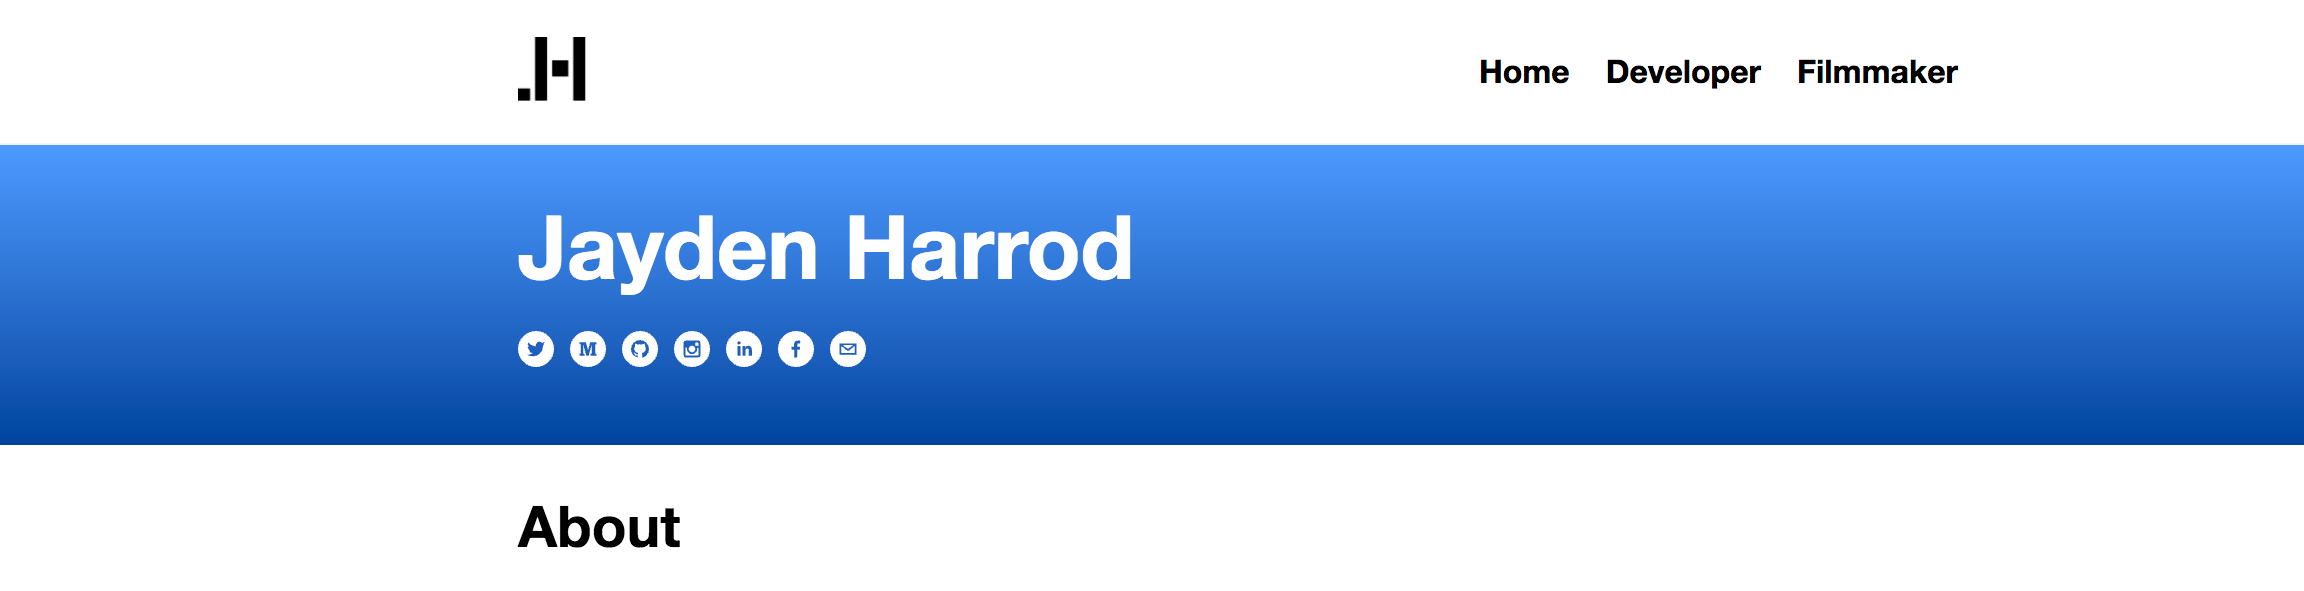
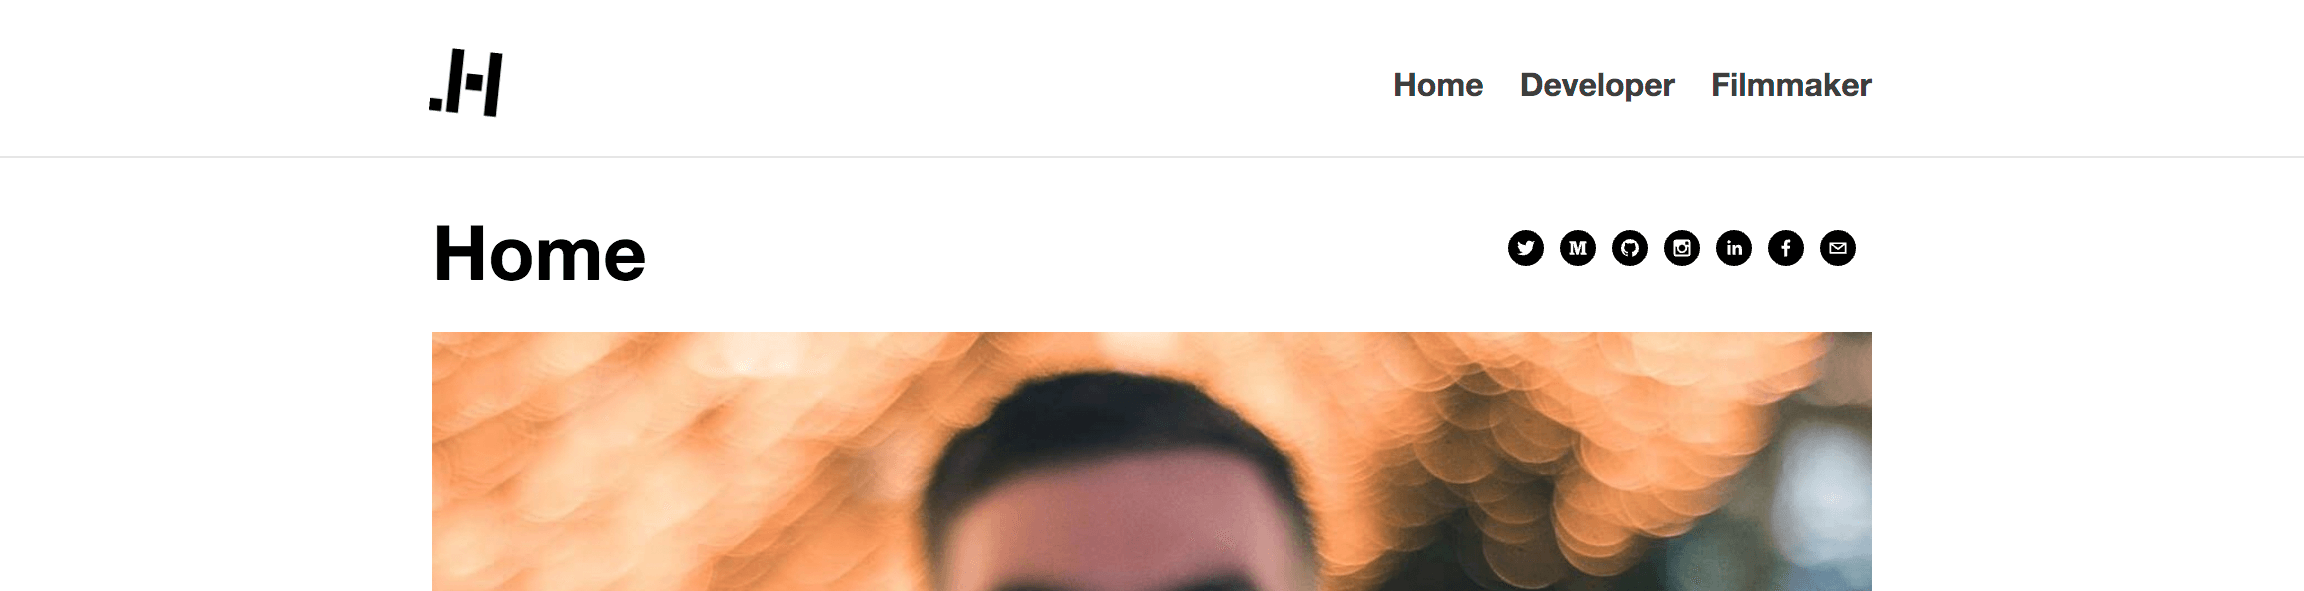
Better Accessibility

diff --git a/src/views/Filmmaker.jsx b/src/views/Filmmaker.jsx
@@ -12,16 +12,16 @@ class Filmmaker extends Component {
         </Helmet>
         <Col1>
           <h1>Filmmaker</h1>
-          <p>I'm a freelance videographer, photographer, and editor. My speciality in the industry is attention to high quality audio recording, and the use of SFX to create immersive edits. I also strategize videos that recieve high engagement on social media from my days as a YouTube partner.</p>
+          <p>I&#x27;m a freelance videographer, photographer, and editor. My speciality in the industry is attention to high quality audio recording, and the use of SFX to create immersive edits. I also strategize videos that recieve high engagement on social media from my days as a YouTube partner.</p>
           <p>To discuss freelance services please email me: <a href="mailto:harrod.jayden@gmail.com">harrod.jayden@gmail.com</a></p>
           <TextBox>
           <div className="skill-container">
-            <span className="skill-badge">Lumix GH5 (4K, Full HD)</span>
+            <span className="skill-badge">Lumix GH5</span>
             <span className="skill-badge">Lumix 12-35 F/2.8</span>
             <span className="skill-badge">Lumix XLR adaptor</span>
             <span className="skill-badge">RODELink Wireless Lav</span>
             <span className="skill-badge">RODE Video Mic Pro</span>
-            <span className="skill-badge">Audio-technica AT2020</span>
+            <span className="skill-badge">Audio-Technica AT2020</span>
             <span className="skill-badge">Manfrotto Befree Tripod</span>
             <span className="skill-badge">X3 Yongnuo YN-300 LED Light Kit</span>
             <span className="skill-badge">Zhiyun Crane 2 Gimbal</span>
@@ -29,13 +29,13 @@ class Filmmaker extends Component {
           </div>
           </TextBox>
           <h2 style={{ marginTop: "32px", marginBottom: "0" }}>Projects</h2>
-          <div className="video-wrapper"><iframe src="https://player.vimeo.com/video/251011540" width="720" height="405" frameBorder="0" allowFullScreen></iframe></div>
-          <div className="video-wrapper"><iframe src="https://player.vimeo.com/video/251011915" width="720" height="405" frameBorder="0" allowFullScreen></iframe></div>
-          <div className="video-wrapper"><iframe src="https://player.vimeo.com/video/202331004" width="720" height="405" frameBorder="0" allowFullScreen></iframe></div>
-          <div className="video-wrapper"><iframe src="https://player.vimeo.com/video/251011370" width="720" height="405" frameBorder="0" allowFullScreen></iframe></div>
-          <div className="video-wrapper"><iframe src="https://player.vimeo.com/video/251011247" width="720" height="405" frameBorder="0" allowFullScreen></iframe></div>
-          <div className="video-wrapper"><iframe src="https://player.vimeo.com/video/251011285" width="720" height="405" frameBorder="0" allowFullScreen></iframe></div>
-          <div className="video-wrapper"><iframe src="https://player.vimeo.com/video/251011507" width="720" height="405" frameBorder="0" allowFullScreen></iframe></div>
+          <div className="video-wrapper"><iframe title="portfolio video soho app" src="https://player.vimeo.com/video/251011540" width="720" height="405" frameBorder="0" allowFullScreen></iframe></div>
+          <div className="video-wrapper"><iframe title="portfolio video in the kitchen with will and steve" src="https://player.vimeo.com/video/251011915" width="720" height="405" frameBorder="0" allowFullScreen></iframe></div>
+          <div className="video-wrapper"><iframe title="portfolio video wipehero story" src="https://player.vimeo.com/video/202331004" width="720" height="405" frameBorder="0" allowFullScreen></iframe></div>
+          <div className="video-wrapper"><iframe title="portfolio video umina beach sunrise" src="https://player.vimeo.com/video/251011370" width="720" height="405" frameBorder="0" allowFullScreen></iframe></div>
+          <div className="video-wrapper"><iframe title="portfolio video taking flight" src="https://player.vimeo.com/video/251011247" width="720" height="405" frameBorder="0" allowFullScreen></iframe></div>
+          <div className="video-wrapper"><iframe title="portfolio video manly beach timelapse" src="https://player.vimeo.com/video/251011285" width="720" height="405" frameBorder="0" allowFullScreen></iframe></div>
+          <div className="video-wrapper"><iframe title="portfolio video month of timelapses" src="https://player.vimeo.com/video/251011507" width="720" height="405" frameBorder="0" allowFullScreen></iframe></div>
         </Col1>
       </Container>
     );

diff --git a/src/views/Developer.jsx b/src/views/Developer.jsx
@@ -16,7 +16,7 @@ class Developer extends Component {
         <Col1>
           <h1>Developer</h1>
           <p>
-            I'm a software engineer using full-stack JavaScript, HTML5, CSS3,
+            I&#x27;m a software engineer using full-stack JavaScript, HTML5, CSS3,
             and React to build web products. In my role as a developer, I love
             designing interfaces that feel intuitive and accessible to all
             people. The work I enjoy the most is creating functional user
@@ -24,9 +24,10 @@ class Developer extends Component {
           </p>
           <TextBox>
             <div className="skill-container">
-              <span className="skill-badge">JavaScript (ES6)</span>
               <span className="skill-badge">HTML5</span>
-              <span className="skill-badge">BEM/CSS3</span>
+              <span className="skill-badge">JavaScript</span>
+              <span className="skill-badge">CSS in JS</span>
+              <span className="skill-badge">CSS3</span>
               <span className="skill-badge">React</span>
               <span className="skill-badge">Redux</span>
               <span className="skill-badge">Node</span>
@@ -43,7 +44,7 @@ class Developer extends Component {
             <h3>React Posts</h3>
           </a>
           <Box
-            class="box-l"
+            class="box"
             path="https://github.com/JaydenHarrod/react-redux-crud"
             link="true"
             alt="React Posts Image"
@@ -53,7 +54,7 @@ class Developer extends Component {
             <h3>JaydenHarrod.com</h3>
           </a>
           <Box
-            class="box-l"
+            class="box"
             path="https://github.com/JaydenHarrod/jh"
             link="true"
             alt="JaydenHarrod.com Image"

diff --git a/src/components/SocialIcons.jsx b/src/components/SocialIcons.jsx
@@ -1,0 +1,19 @@
+import React from 'react';
+import { SocialIcon } from 'react-social-icons';
+import "../styles/components/socialicons.scss";
+
+const SocialIcons = () => {
+    return (
+        <div className="social-icons">
+            <span><SocialIcon url="https://twitter.com/jaydenharrod" rel="noopener noreferrer" aria-label="Jayden on Twitter" style={{ height: 18, width: 18 }} color="black" /></span>
+            <span><SocialIcon url="https://medium.com/@jaydenharrod" rel="noopener noreferrer" aria-label="Jayden on Medium" style={{ height: 18, width: 18 }} color="black" /></span>
+            <span><SocialIcon url="https://github.com/jaydenharrod" rel="noopener noreferrer" aria-label="Jayden on GitHub" style={{ height: 18, width: 18 }} color="black" /></span>
+            <span><SocialIcon url="https://instagram.com/jaydenharrod" rel="noopener noreferrer" aria-label="Jayden on Instagram" style={{ height: 18, width: 18 }} color="black" /></span>
+            <span><SocialIcon url="https://linkedin.com/in/jaydenharrod" rel="noopener noreferrer" aria-label="Jayden on LinkedIn" style={{ height: 18, width: 18 }} color="black" /></span>
+            <span><SocialIcon url="https://facebook.com/harrodjayden" rel="noopener noreferrer" aria-label="Jayden on Facebook" style={{ height: 18, width: 18 }} color="black" /></span>
+            <span><SocialIcon url="mailto:harrod.jayden@gmail.com" rel="noopener noreferrer" aria-label="Contact Jayden via Email" style={{ height: 18, width: 18 }} color="black" /></span>
+        </div>
+    )
+}
+
+export default SocialIcons;

diff --git a/src/styles/components/shared/box.scss b/src/styles/components/shared/box.scss
@@ -10,8 +10,8 @@
   cursor: pointer;
 }
 
-.box-l {
-  max-width: 95%;
+.box {
+  max-width: 100%;
   height: auto;
   display:block;
   margin-top: $scale-p0;
@@ -19,21 +19,7 @@
   border-radius: $scale-m5;
   border: 8px solid transparent;
   outline: 1px solid rgba(0,0,0,.1);
-  img {
-    max-width: 100%;
-    height: 100%;
-  }
-}
-
-.box-r {
-  max-width: 95%;
-  height: auto;
-  display:block;
-  margin-top: $scale-p0;
-  margin-bottom: $scale-p0;
-  border-radius: $scale-m5;
-  border: 8px solid transparent;
-  outline: 1px solid rgba(0,0,0,.1);
+  transition: box-shadow .2s ease-in-out;
   img {
     max-width: 100%;
     height: 100%;
@@ -41,24 +27,22 @@
 }
 
 // Effects
-.disable-text-on:hover {
+.disable-text:hover {
   h4 {
     display: none;
   }
 }
 
-.box-l:hover {
+.box:hover {
   box-shadow: 2px 1px 3px #ccc;
-  transition: box-shadow .2s ease-out;
+  transition: box-shadow .2s ease-in-out;
 }
 
-.box-r:hover {
-  box-shadow: 2px 1px 3px #ccc;
-  transition: box-shadow .2s ease-out;  
-}
-
-@media (max-width: 500px) {
+@media (max-width: 800px) {
   .text-overlay {
     font-size: $font-size-heading;
+  }
+  .box {
+    max-width: 95%;
   }
 }

diff --git a/src/components/BlogPanel.jsx b/src/components/BlogPanel.jsx
@@ -1,0 +1,24 @@
+import React, { Fragment } from 'react';
+import "../styles/components/blogpanel.scss";
+
+const BlogPanel = () => {
+    return (
+        <Fragment>
+            <h2 style={{ paddingTop: "18px" }}>Writing</h2>
+            <div className="blog-container">
+                <a href="https://medium.com/@JaydenHarrod/dealing-with-city-distractions-ae4d133d17dc" rel="noopener noreferrer" target="_blank" className="status">
+                    Dealing With City Distractions
+                </a>
+                <p className="p-date">Feb 4th, 2018</p>
+            </div>
+            <div className="blog-container">
+                <a href="https://medium.com/@JaydenHarrod/life-logging-goal-setting-guide-2018-689ffd7b271a" rel="noopener noreferrer" target="_blank" className="status">
+                    You&#x27;re Setting Goals Wrong
+                </a>
+                <p className="p-date">Jan 9th, 2018</p>
+            </div>
+        </Fragment>
+    )
+}
+
+export default BlogPanel;

diff --git a/src/components/Blurb.jsx b/src/components/Blurb.jsx
@@ -1,0 +1,21 @@
+import React, { Fragment } from "react";
+
+const Blurb = () => {
+    return (
+        <Fragment>
+            <p>
+                I&#x27;m a digital media generalist specifically interested in front-end engineering and filmmaking. I&#x27;ve been doing both for over 8 years now and absolutely love it. As part of the journey, I&#x27;ve also picked up design, audio, growth hacking, and business skills.      </p>
+            <p>
+                As a result, I&#x27;ve done some interesting work.
+            </p>
+            <p>
+                I ran operations for an e-commerce server hosting company. Gathered millions of views as a YouTuber. And created content for Australia&#x27;s biggest tech brands at Digivizer.
+            </p>
+            <p>
+                Now, I&#x27;m living less of an entrepreneurial life and focusing on a balanced lifestyle.
+            </p>
+        </Fragment>
+    )
+}
+
+export default Blurb;

diff --git a/src/components/Employment.jsx b/src/components/Employment.jsx
@@ -1,0 +1,20 @@
+import React, { Fragment } from 'react';
+import "../styles/components/employment.scss";
+
+const Employment = () => {
+    return (
+        <Fragment>
+            <h2 style={{ paddingTop: "18px" }}>Employment History</h2>
+            {/* <p style={{ marginBottom: "0" }}>hipages: Front End Engineer</p>
+            <p className="p-date">Present</p> */}
+            <p style={{ marginBottom: "0" }}>Digivizer: Junior Creative / Engineer</p>
+            <p className="p-date">2016-2018</p>
+            <p style={{ marginBottom: "0" }}>PickleHosting: Operations Manager</p>
+            <p className="p-date">2014-2016</p>
+            <p style={{ marginBottom: "0" }}>YouTube: Digital Creative</p>
+            <p className="p-date">2010-2016</p>
+        </Fragment>
+    )
+}
+
+export default Employment;

diff --git a/src/components/shared/Box.jsx b/src/components/shared/Box.jsx
@@ -5,13 +5,13 @@ import "../../styles/components/shared/box.scss";
 
 export const Box = props => (
   <Col1>
-    <div className="disable-text-on">
+    <div className="disable-text">
       <h3 className="text-overlay">{props.title}</h3>
       {props.link ? (
         <a href={props.path} target="_blank" rel="noopener noreferrer">
           <img
             src={props.src}
-            className={props.class}
+            className="box"
             alt={props.alt}
             aria-label={props.alt}
           />
@@ -20,7 +20,7 @@ export const Box = props => (
           <Link to={props.path}>
             <img
               src={props.src}
-              className={props.class}
+              className="box"
               alt={props.alt}
               aria-label={props.alt}
             />

diff --git a/src/styles/base.scss b/src/styles/base.scss
@@ -1,7 +1,7 @@
-@import "normalize.scss";
-@import "./foundation/color.scss";
-@import "./foundation/scale.scss";
-@import "./foundation/typography.scss";
+@import 'normalize.scss';
+@import './foundation/color.scss';
+@import './foundation/scale.scss';
+@import './foundation/typography.scss';
 
 body {
   background: white;
@@ -11,11 +11,24 @@ body {
 
 a {
   text-decoration: none;
-  color: rgba(0,0,0,.5);
+  color: rgba(0, 0, 0, 0.54);
+  transition: color .2s ease-in-out; 
 }
 
 a:hover {
   text-decoration: underline;
   color: rgba(0,0,0,1);
-  transition: color .2s ease-out;
+  transition: color .2s ease-in-out;
+}
+
+a:visited {
+  color: #00449e;
+}
+
+img {
+  transition: all .4s ease-in-out;
+}
+
+img:hover {
+  transform: scale(1.01);
 }

diff --git a/src/components/Content.jsx b/src/components/Content.jsx
@@ -1,0 +1,24 @@
+import React from "react";
+import { Container, Col1 } from "./shared/Layout";
+import portraitURL from "../assets/profile-picture.jpg";
+import BlogPanel from "./BlogPanel";
+import Employment from "./Employment";
+import Blurb from "./Blurb";
+import SocialIcons from "./SocialIcons";
+
+export const Content = () => (
+  <Container>
+    <Col1>
+      <div style={{ display: "flex", justifyContent: "space-between", alignItems: "center" }}>
+        <h1>Home</h1>
+        <SocialIcons />
+      </div>
+      <img src={portraitURL} width="100%" alt="portrait" />
+      <Blurb />
+      <Employment />
+      <BlogPanel />
+    </Col1>
+  </Container>
+);
+
+export default Content;

diff --git a/src/styles/components/developer.scss b/src/styles/components/developer.scss
@@ -5,16 +5,20 @@
 }
 
 .skill-badge {
-    background-color: #cdecff;
+    background-color: #00449e;
+    color: #fff;
     border-radius: 4px;
-    padding: 8px;
+    padding-top: 4px;
+    padding-bottom: 4px;
+    padding-left: 8px;
+    padding-right: 8px;
     margin-right: 8px;
     margin-top: 18px;
     border: 1px solid transparent;
 }
 
 .skill-badge:hover {
-    border: 1px solid #96ccff;
+    border: 1px solid #001b44;
     transition: border .2s ease-out;
     box-shadow: 1px 1px 3px #ccc;
     transition: box-shadow .2s ease-out;

diff --git a/src/components/shared/Layout.jsx b/src/components/shared/Layout.jsx
@@ -5,10 +5,6 @@ const Container = props => {
   return <div className="container">{props.children}</div>;
 };
 
-const FullContainer = props => {
-  return <div className="full-container">{props.children}</div>;
-};
-
 const Col1 = props => {
   return <div className="col-1">{props.children}</div>;
 };
@@ -17,4 +13,4 @@ const TextBox = props => {
   return <div className="text-box">{props.children}</div>;
 }
 
-export { Container, FullContainer, Col1, TextBox };
+export { Container, Col1, TextBox };
